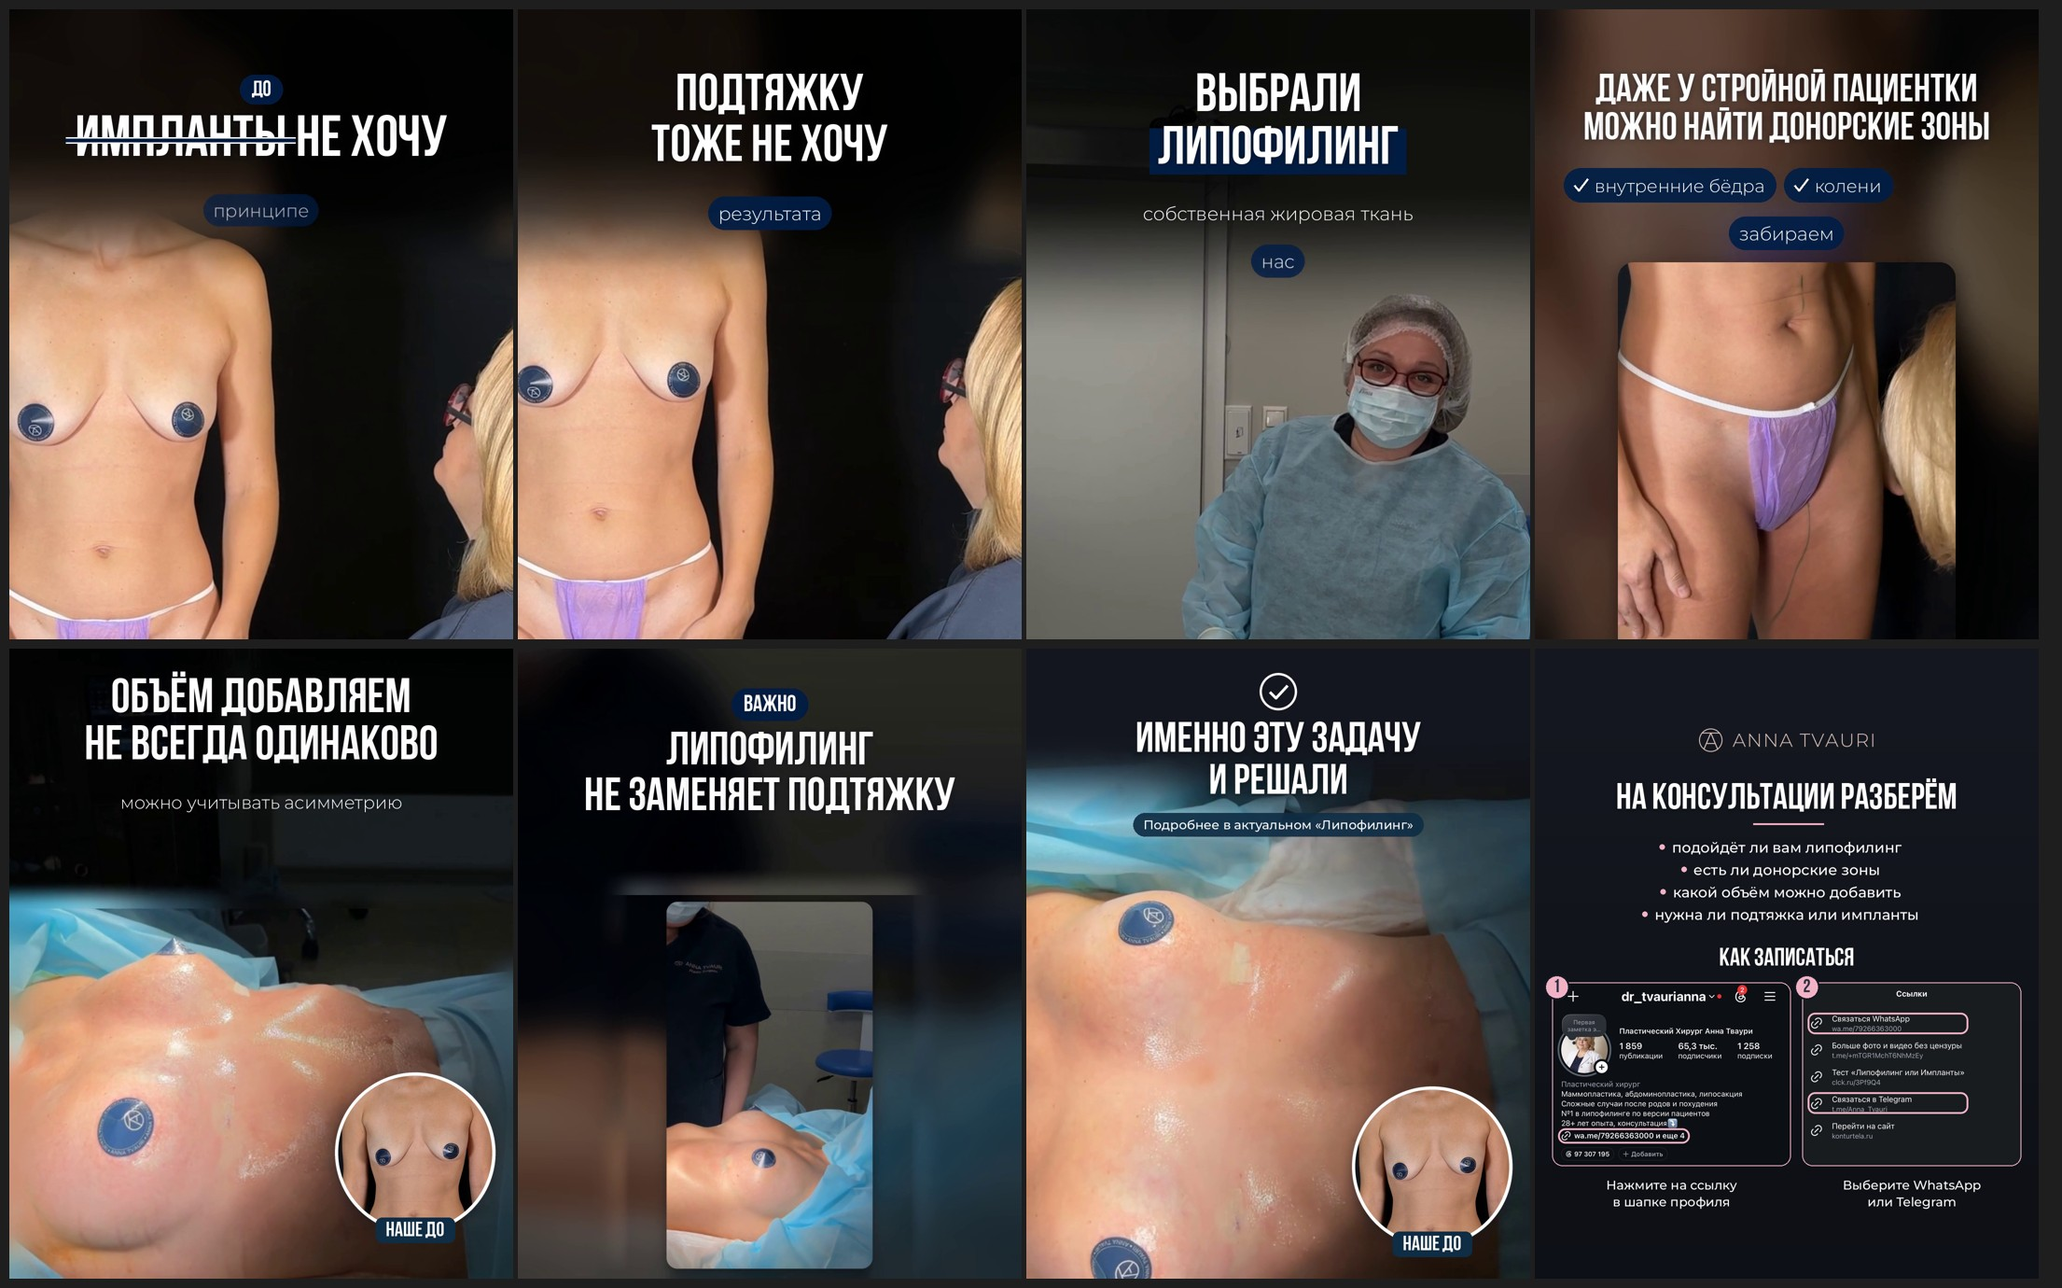
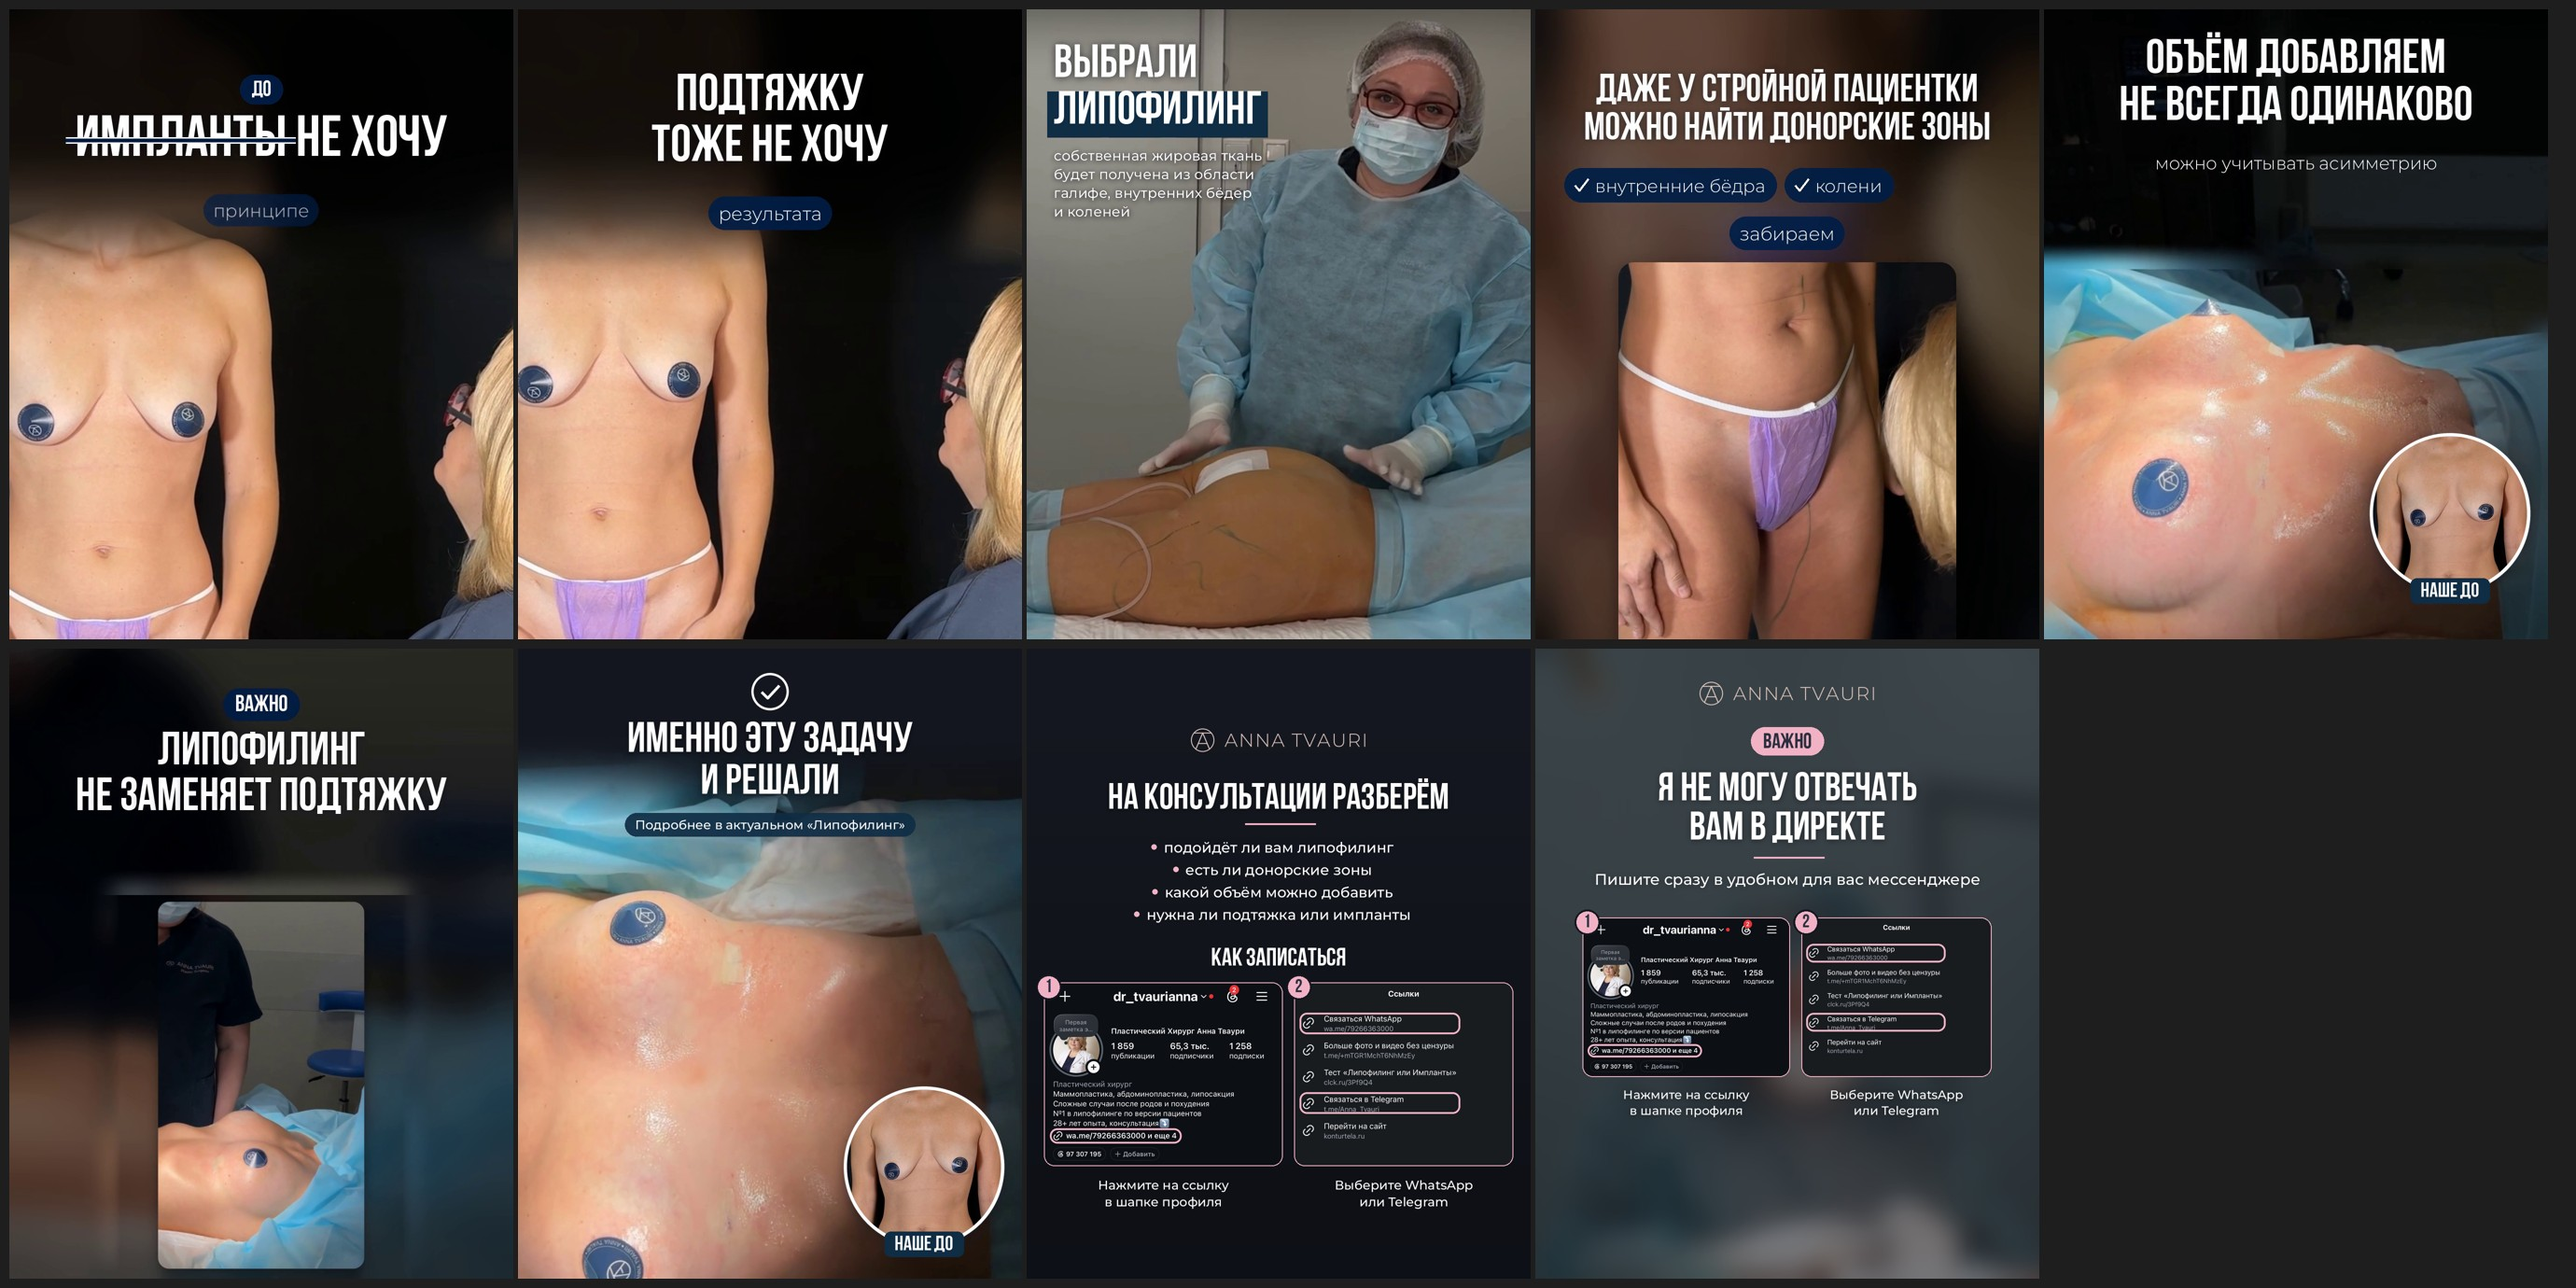
Lipofilling carousel: slide 9, blurred OR photo with the 'no answers in Direct' note, profile navigation and room for a link
Claude-Session: https://claude.ai/code/session_01XB7jWmRDxB52StXcRzXaWE

diff --git a/carousel_lipofilling/preview.html b/carousel_lipofilling/preview.html
@@ -43,7 +43,7 @@ body{font-family:var(--body);padding-inline:16px;padding-block:24px 40px}
   <div class="viewport">
     <div class="track" id="track"></div>
     <button class="sound" id="snd">Звук</button>
-    <span class="count" id="count">1/8</span>
+    <span class="count" id="count">1/9</span>
     <button class="nav prev" id="prev" aria-label="Предыдущий слайд">‹</button>
     <button class="nav next" id="next" aria-label="Следующий слайд">›</button>
   </div>
@@ -53,7 +53,7 @@ body{font-family:var(--body);padding-inline:16px;padding-block:24px 40px}
 <p class="hint">Листайте свайпом или стрелками. Видео в слайдах со звуком из ролика: нажмите «Звук», чтобы включить.</p>
 
 <script>
-const S=["01_implants_no.mp4","02_lift_no.mp4","03_chose_lipofilling.mp4","04_donor_zones.mp4","05_volume.mp4","06_not_a_lift.mp4","07_this_task.mp4","08_cta.jpg"];
+const S=["01_implants_no.mp4","02_lift_no.mp4","03_chose_lipofilling.mp4","04_donor_zones.mp4","05_volume.mp4","06_not_a_lift.mp4","07_this_task.mp4","08_cta.jpg","09_important.jpg"];
 const track=document.getElementById("track"),dots=document.getElementById("dots"),count=document.getElementById("count");
 S.forEach((f,i)=>{
   const s=document.createElement("div");s.className="slide";

diff --git a/tools/carousel_lipofilling.py b/tools/carousel_lipofilling.py
@@ -229,9 +229,55 @@ def cta():
     ct.save_jpg(c, f"{OUT}/08_cta.jpg")
 
 
+def booking_steps(c, y, hgt=340, gap=26, text=None):
+    """the two annotated profile screenshots (step 1: link in the header, step 2: pick a messenger); returns the y below"""
+    from PIL import Image, ImageDraw
+    text = text or ct.WHITE
+    d = ImageDraw.Draw(c)
+    shots = [("profile_header.jpg", [(30, 805, 760, 890)], "1", "Нажмите на ссылку\nв шапке профиля"),
+             ("profile_links.jpg", [(30, 180, 1000, 310), (30, 660, 1000, 790)], "2", "Выберите WhatsApp\nили Telegram")]
+    ims = [Image.open(os.path.join(ASSETS, fn)).convert("RGB") for fn, *_ in shots]
+    ws = [int(i.width * hgt / i.height) for i in ims]
+    x0 = (W - sum(ws) - gap) // 2; S = 3
+    for (fn, boxes, num, cap), im_, w_ in zip(shots, ims, ws):
+        k = hgt / im_.height
+        card = im_.resize((w_ * S, hgt * S), Image.LANCZOS).convert("RGBA"); hd = ImageDraw.Draw(card)
+        for bx0, by0, bx1, by1 in boxes:
+            hd.rounded_rectangle((bx0 * k * S, by0 * k * S, bx1 * k * S, by1 * k * S), radius=16 * S, outline=LILAC_D + (255,), width=4 * S)
+        m = Image.new("L", card.size, 0); ImageDraw.Draw(m).rounded_rectangle((0, 0, card.width - 1, card.height - 1), radius=22 * S, fill=255)
+        card.putalpha(m); card = card.resize((w_, hgt), Image.LANCZOS)
+        c.alpha_composite(card, (x0, y))
+        d.rounded_rectangle((x0 - 1, y - 1, x0 + w_, y + hgt), radius=22, outline=LILAC_D + (140,), width=2)
+        d.ellipse((x0 - 18, y - 18, x0 + 36, y + 36), fill=LILAC_D, outline=ct.GRAPHITE, width=4)
+        d.text((x0 + 9, y + 10), num, font=ct.bebas(40), fill=ct.INK, anchor="mm")
+        for li, ln in enumerate(cap.split("\n")):
+            ct.shadow_text(c, (x0 + w_ / 2 - ct.mont(26, 500).getlength(ln) / 2, y + hgt + 22 + li * 34), ln, ct.mont(26, 500), text)
+        x0 += w_ + gap
+    return y + hgt + 22 + 2 * 34
+
+
+def important():
+    """blurred surgeon in the OR, ВАЖНО accent: no answers in Direct, write to a messenger; profile navigation; room left for a link"""
+    from PIL import Image, ImageDraw, ImageFilter
+    ct.LILAC = LILAC_D
+    im = Image.open(os.path.join(ASSETS, "surgeon_or.jpg")).convert("RGB")
+    bg = ct.fit_cover(im, W, H, cy=0.35).filter(ImageFilter.GaussianBlur(26)).convert("RGBA")
+    bg.alpha_composite(Image.new("RGBA", (W, H), ct.GRAPHITE + (150,)))  # dim the light wall so white type reads
+    c = bg; d = ImageDraw.Draw(c)
+    ct.put_logo(c, y=96, alpha=0.95)
+    f = ct.bebas(46); t = "ВАЖНО"; tw = f.getlength(t); y = 168
+    d.rounded_rectangle(((W - tw) / 2 - 26, y, (W + tw) / 2 + 26, y + 60), radius=30, fill=LILAC_D + (255,))
+    d.text((W / 2, y + 33), t, font=f, fill=ct.INK, anchor="mm")
+    y = ct.Block(W - 2 * ct.MARGIN, "center").head("Я не могу отвечать\nвам в директе", 86, 18).rule(0.14, 24) \
+        .body("Пишите сразу в удобном для вас мессенджере", 33, 0).draw(c, ct.MARGIN, y + 92)
+    y = booking_steps(c, y + 60)
+    ct.save_jpg(c, f"{OUT}/09_important.jpg")  # free space below the steps is left for the link
+
+
 if __name__ == "__main__":
     os.makedirs(OUT, exist_ok=True)
     for n, a, b, *m in SLIDES:
         cut(n, a, b, *m); print("done", n, flush=True)
     add_badge("05_volume", 870, 1080); add_badge("07_this_task", 870, 1110)
     cta(); print("done cta")
+    important(); print("done important")
